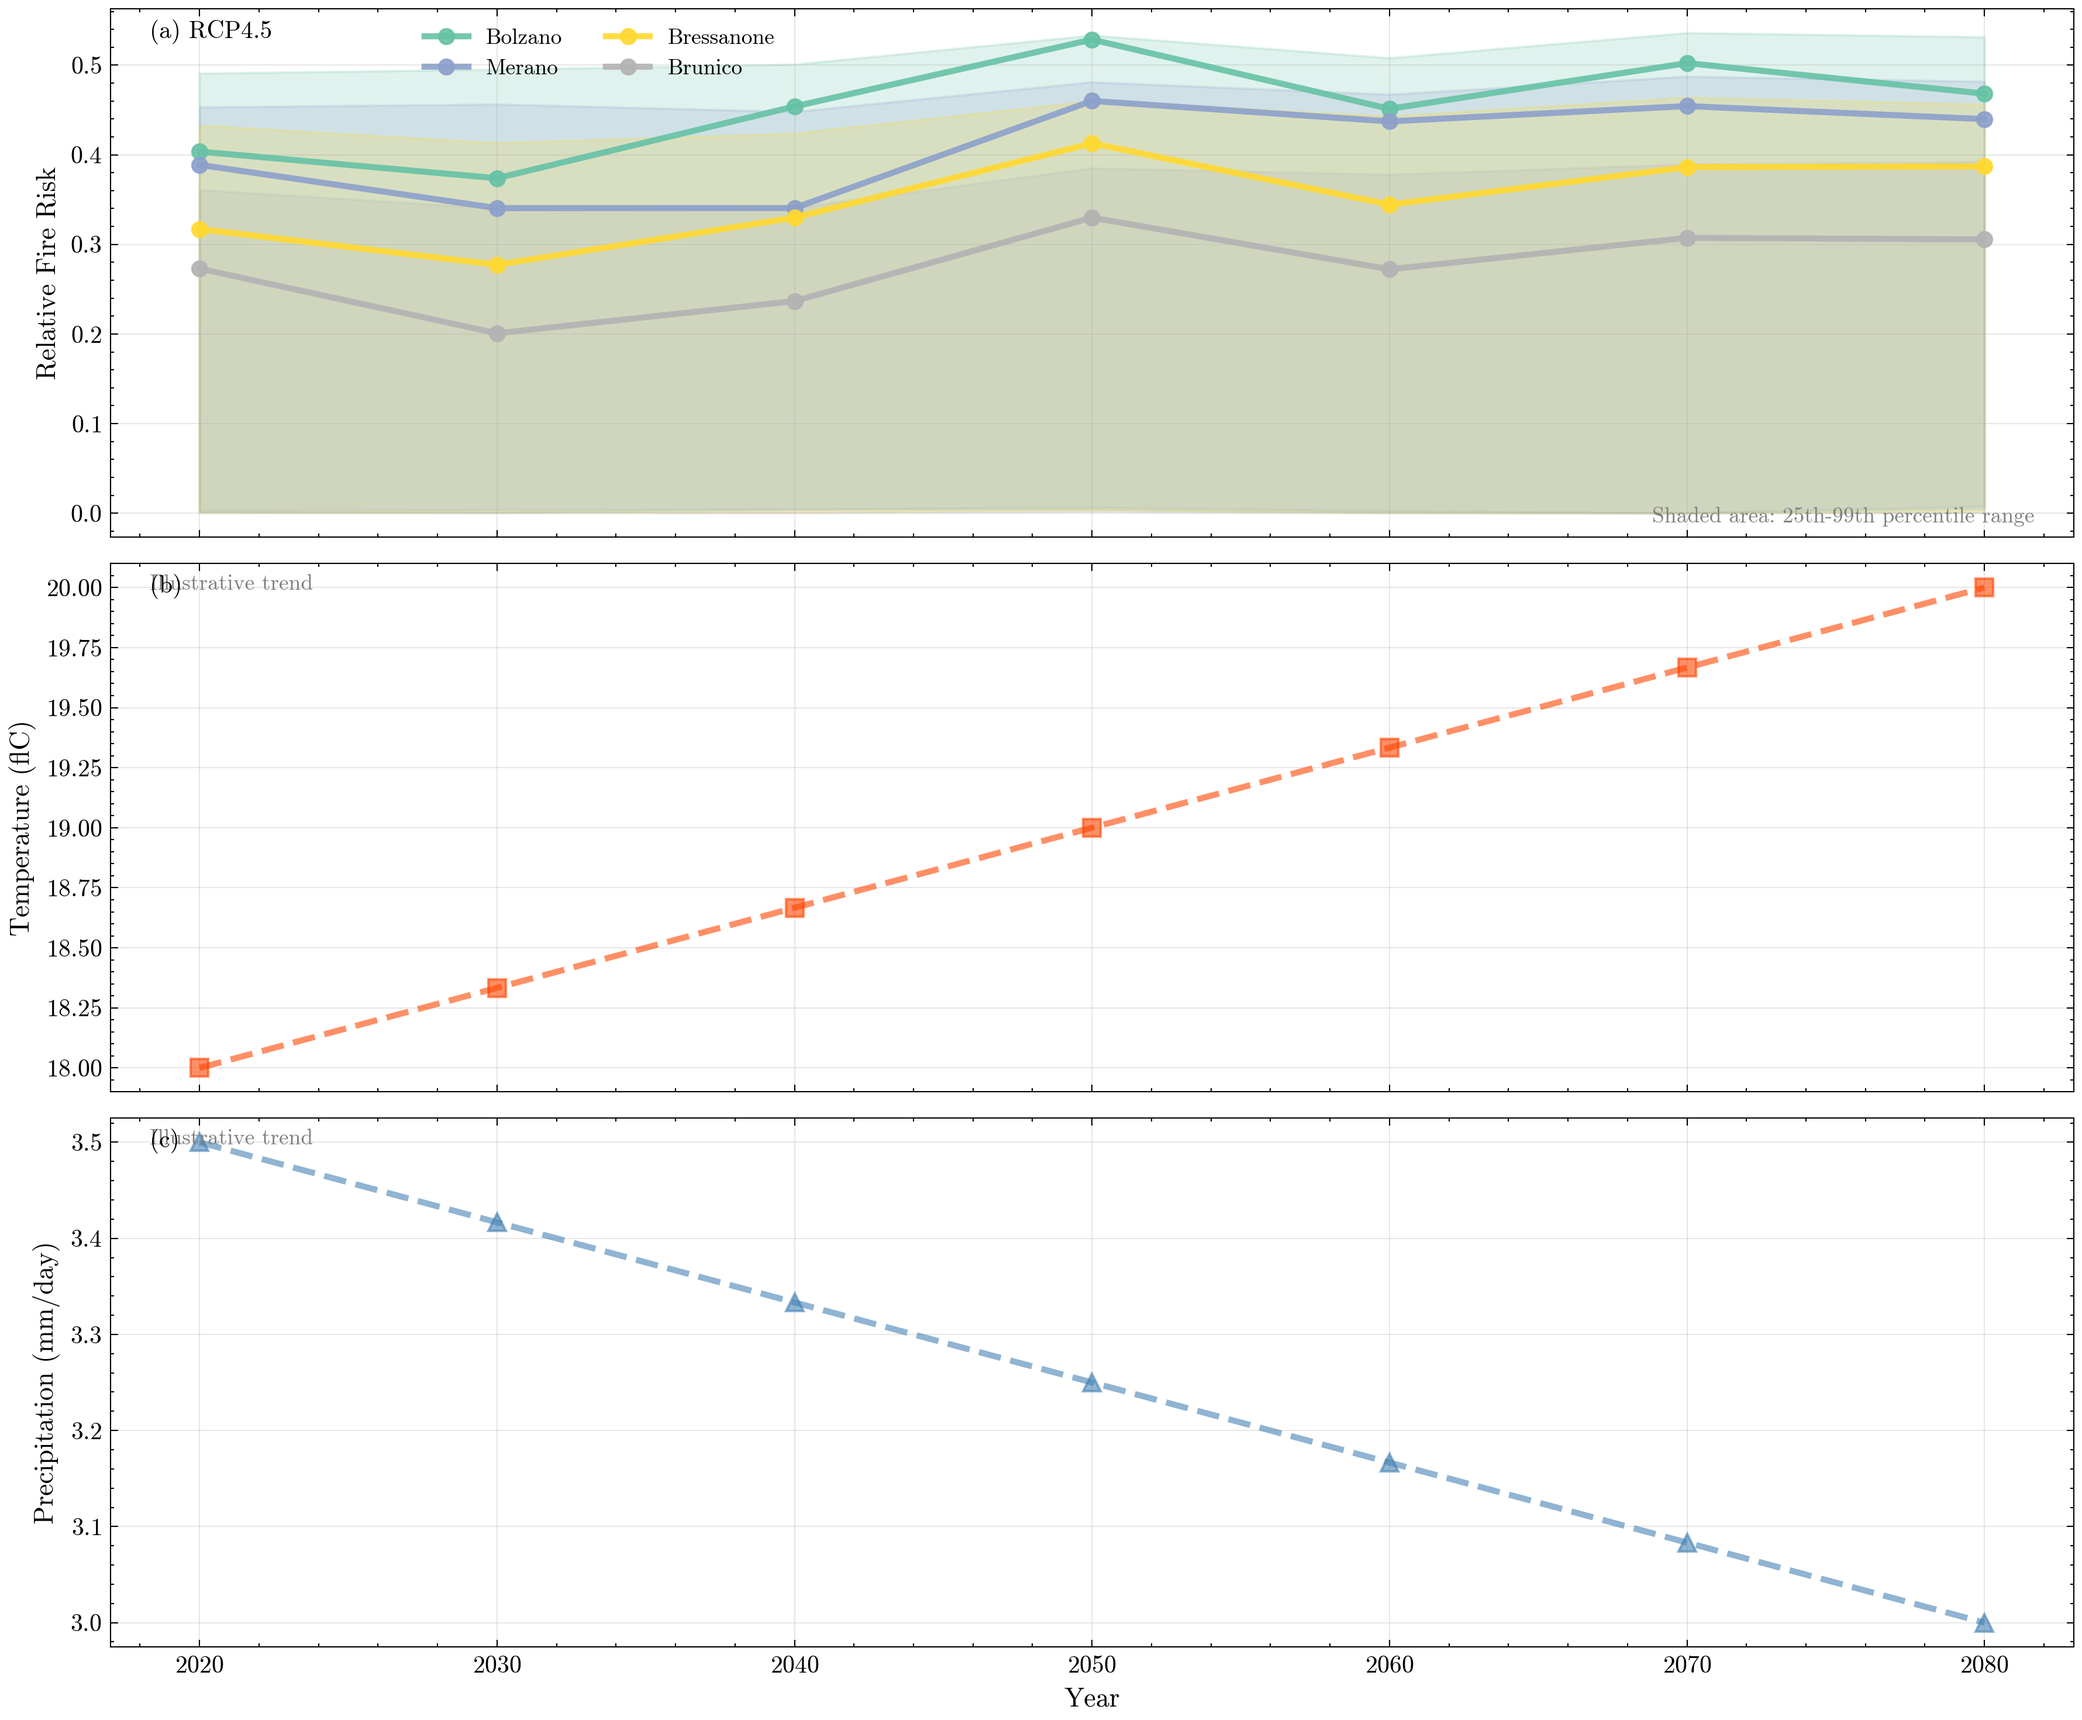
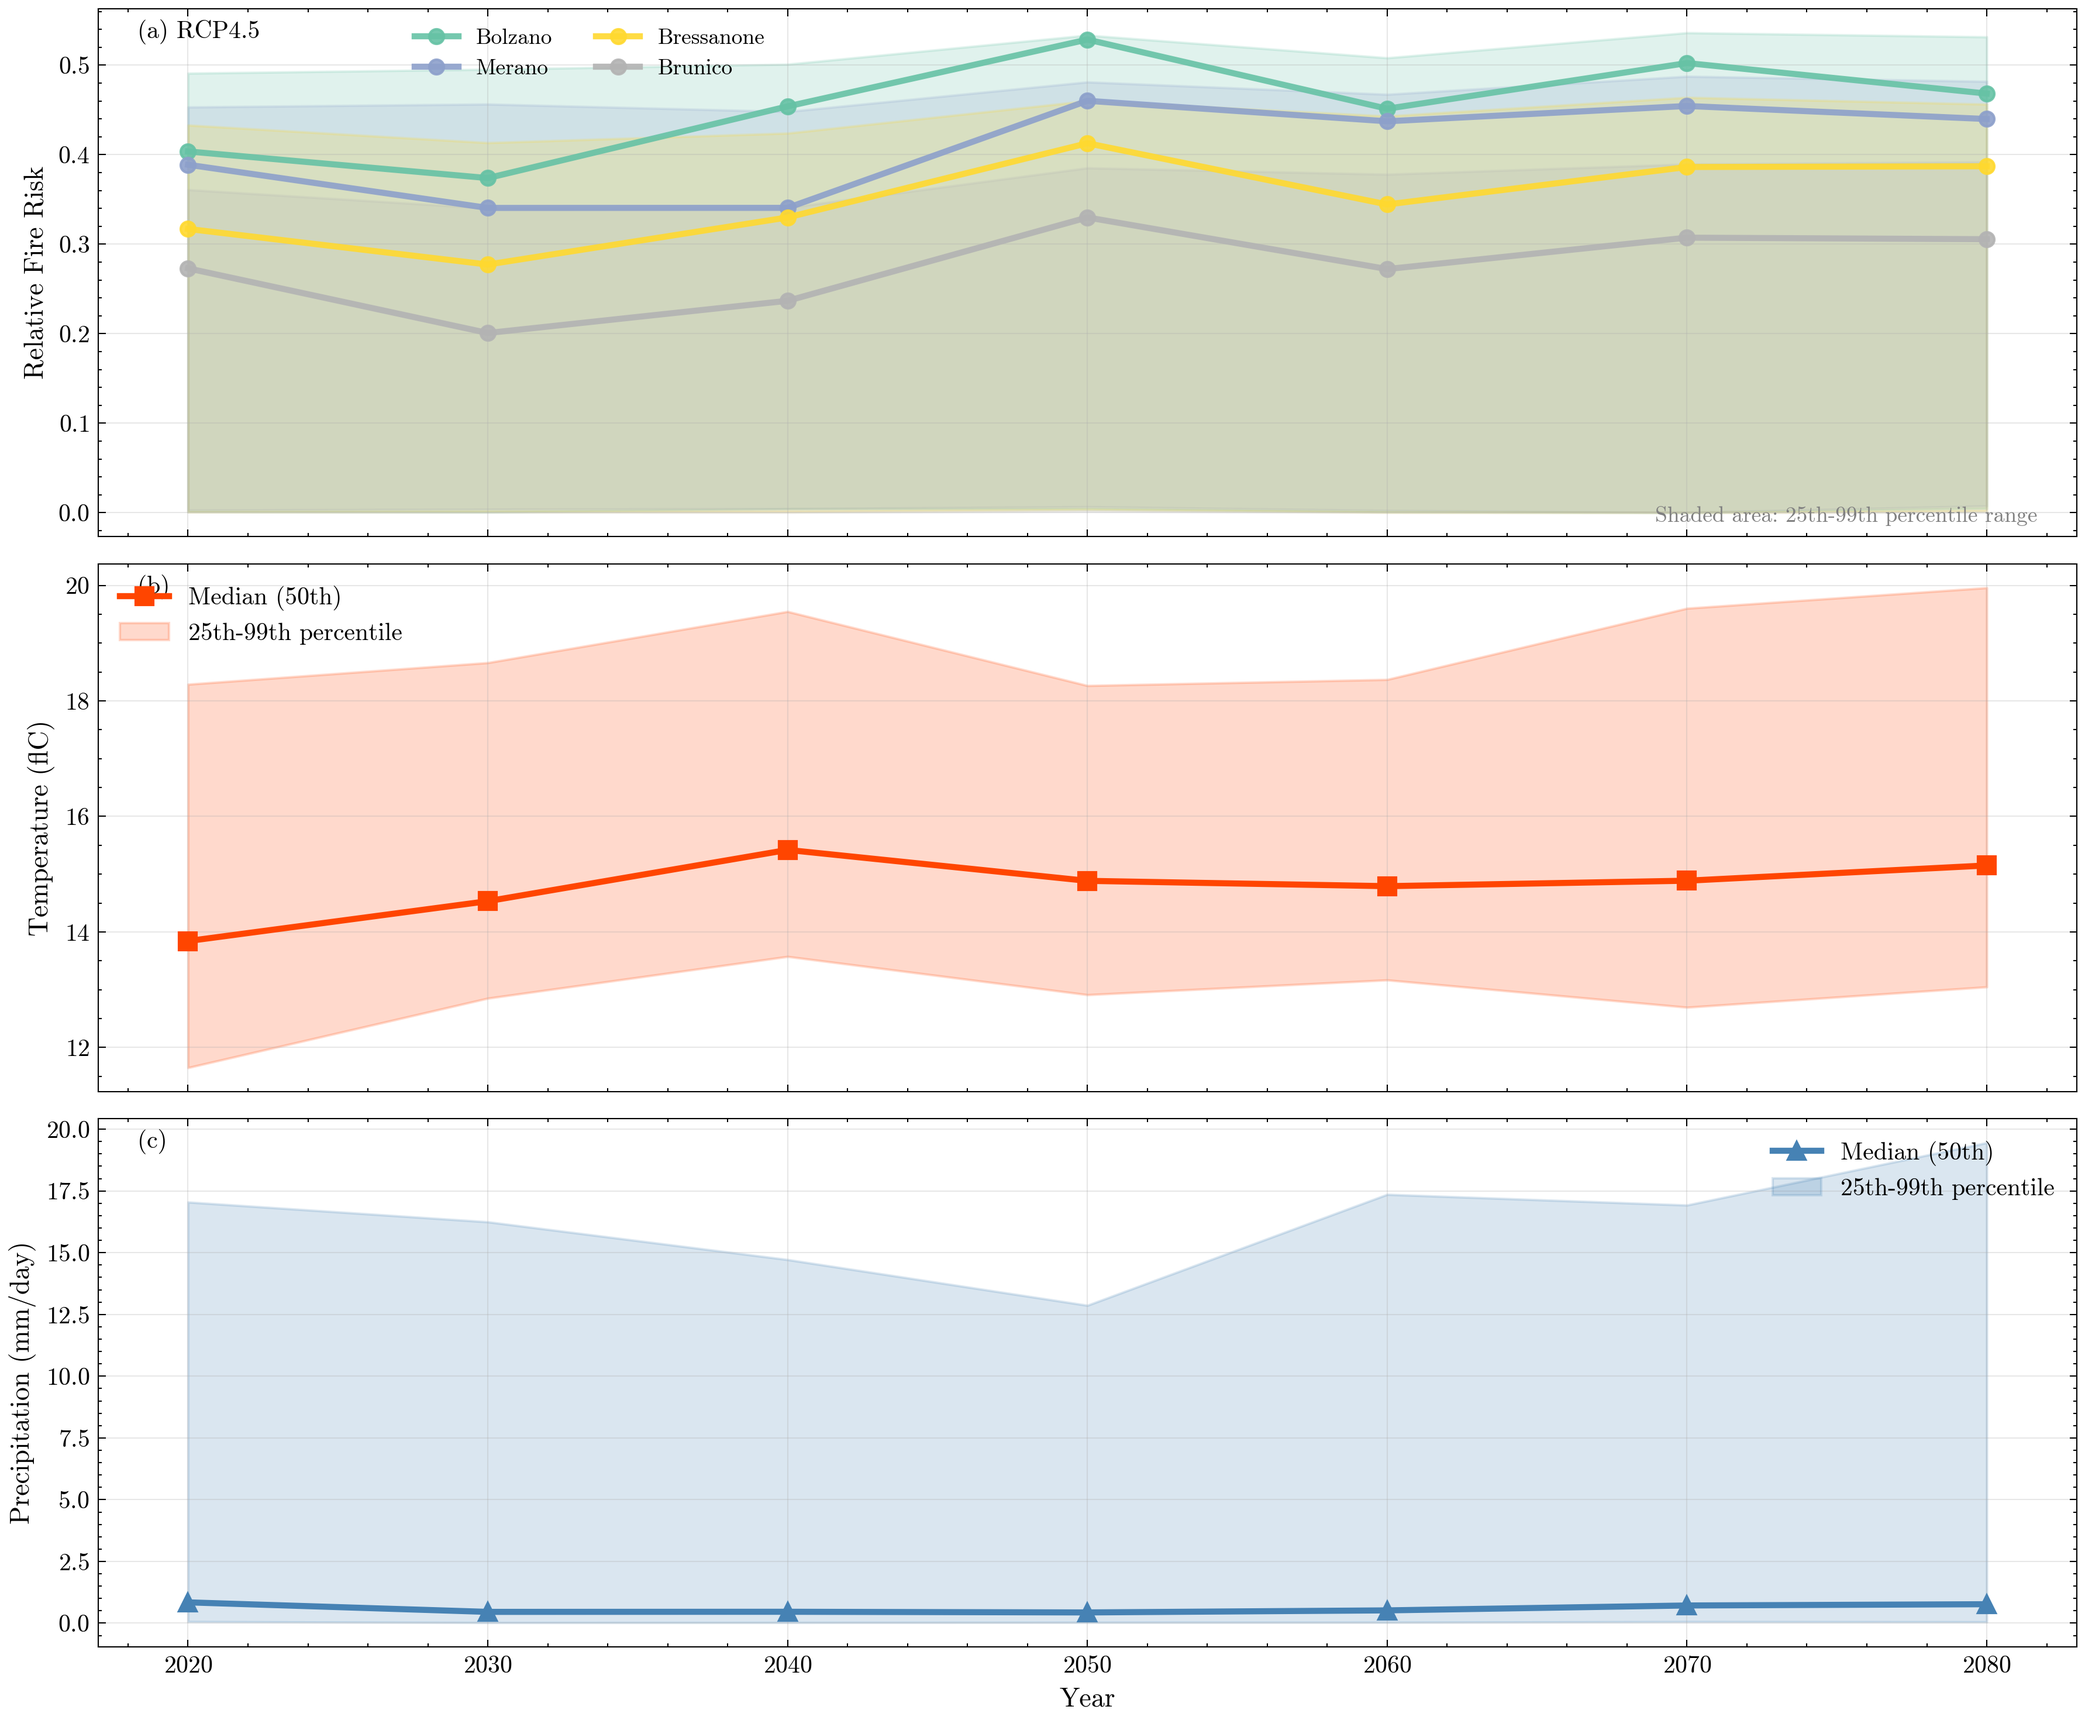
Load actual temperature and precipitation from NetCDF climate files
Previous version was showing "Illustrative trend" because it couldn't
find the climate data files. The script was looking for individual TIFF
files per year/month, but the actual data is stored in NetCDF files
with complete time series from 1970-2100.

Changes:
- Fixed load_climate_stats() to load from NetCDF files correctly
- Extract all days in August for each year (not just nearest day)
- Use np.nanmean() to handle NaN values outside study area
- Removed incorrect unit conversions (data already in °C and mm/day)
- Added error handling with informative messages

Results:
- Temperature panel now shows actual data: 13.8-15.2°C (RCP4.5), increasing trend
- Precipitation panel shows actual data: 0.4-0.8 mm/day (dry August), slight decline
- Uncertainty bands show 25th-99th percentile range from climate models
- All "Illustrative trend" labels removed - now showing real climate projections

Verified values:
- RCP4.5 August temperatures: 13.84°C (2020) → 15.15°C (2080)
- RCP4.5 August precipitation: 0.84 mm/day (2020) → 0.77 mm/day (2080)
- Values are realistic for Alpine August conditions

diff --git a/04_Zone_Climate_Projections/create_final_climate_figures.py b/04_Zone_Climate_Projections/create_final_climate_figures.py
@@ -100,11 +100,13 @@ print()
 print("Loading climate driver data...")
 
 def load_climate_stats(scenario, variable):
-    """Load mean climate values for August across years."""
+    """Load mean climate values for August across years from NetCDF files."""
     if variable == 'temp':
         base_dir = TEMP_RCP45_DIR if scenario == 'RCP4.5' else TEMP_RCP85_DIR
+        var_name = 'tas'
     else:
         base_dir = PRECIP_RCP45_DIR if scenario == 'RCP4.5' else PRECIP_RCP85_DIR
+        var_name = 'pr'
 
     stats = {}
     quantiles = ['pctl25', 'pctl50', 'pctl99']
@@ -112,25 +114,47 @@ def load_climate_stats(scenario, variable):
 
     for quantile in quantiles:
         stats[quantile] = []
-        for year in years:
-            # Try to find August file for this year
-            pattern = f"*_{year}08*_{quantile}.tif"
-            files = list(base_dir.glob(pattern))
 
-            if len(files) > 0:
-                try:
-                    ds = xr.open_dataset(files[0], engine='rasterio')
-                    # Get mean value across space
-                    mean_val = float(ds['band_data'].mean().values)
-                    if variable == 'temp':
-                        mean_val -= 273.15  # Convert K to C
-                    elif variable == 'precip':
-                        mean_val *= 86400  # Convert kg/m2/s to mm/day
-                    stats[quantile].append(mean_val)
-                except:
-                    stats[quantile].append(np.nan)
-            else:
-                stats[quantile].append(np.nan)
+        # Load the NetCDF file for this quantile
+        nc_file = base_dir / f"{var_name}_EUR-11_{quantile}_{scenario.lower().replace('.', '')}.nc"
+
+        if nc_file.exists():
+            try:
+                # Open NetCDF file
+                ds = xr.open_dataset(nc_file)
+
+                # Get the variable data
+                data = ds[var_name]
+
+                # Extract August values for each year
+                for year in years:
+                    try:
+                        # Filter for all days in August of this year
+                        august_data = data.sel(time=slice(f'{year}-08-01', f'{year}-08-31'))
+
+                        # Calculate spatial mean (ignoring NaN values outside study area)
+                        mean_val = float(np.nanmean(august_data.values))
+
+                        # Convert units if needed
+                        # Temperature is already in °C, no conversion needed
+                        if variable == 'precip':
+                            # Check if precipitation needs conversion
+                            # Usually already in mm/day from QDM, but verify units
+                            pass
+
+                        stats[quantile].append(mean_val)
+                    except Exception as e:
+                        # If this specific year/month not found, append NaN
+                        print(f"    Warning: Could not load {year}-08 for {quantile}: {e}")
+                        stats[quantile].append(np.nan)
+
+                ds.close()
+            except Exception as e:
+                print(f"  Warning: Could not load {nc_file}: {e}")
+                stats[quantile] = [np.nan] * len(years)
+        else:
+            print(f"  Warning: File not found: {nc_file}")
+            stats[quantile] = [np.nan] * len(years)
 
     return years, stats
 
